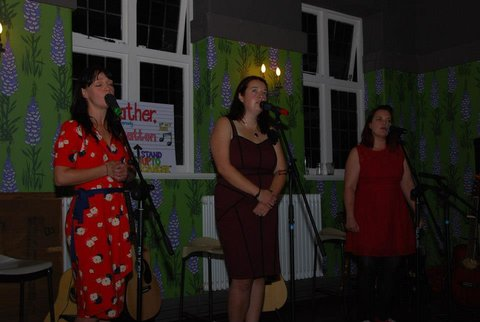
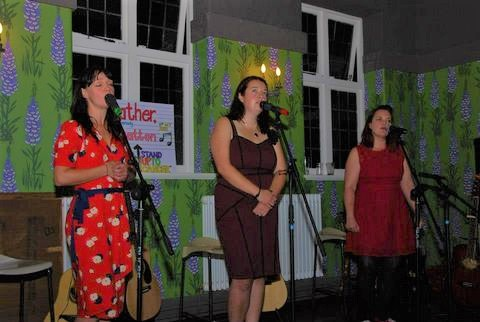
improved responsive design on footer and listen page

diff --git a/listen.html b/listen.html
@@ -11,56 +11,53 @@
 <body>
     <div class="listen-container">
         <div class="row">
-            <div class="col-md-12 listen-section-daisy background-color-red">
-                <ul>
-                    <li class="col-md-6">
-                        <div class="play-image-container">
-                            <a href="/audio/Daisy.mp3" target="_blank"><i class="fa fa-play play-icon"></i></a>
-                        </div>
-                    </li>
-                    
-                    <li class="col-md-6">
-                        <div class="right-align-text-container">
-                            <h4>Daisy</h4>
-                            <p>Abby loves this song by Karine Polwart so much that she spent hours learning the guitar part! Out of her comfort zone for sure!</p>
-                        </div>
-                    </li>
-                </ul>
+            <div class="col-sm-12 section background-color-red">
+                <div class="col-md-6 col-sm-12">
+                    <div class="play-image-container">
+                        <a href="/audio/Daisy.mp3" target="_blank"><i class="fa fa-play play-icon"></i></a>
+                    </div>
+                </div>
+
+                <div class="col-md-6 col-sm-12">
+                    <div class="text-container">
+                        <h4>Daisy</h4>
+                        <p>Abby loves this song by Karine Polwart so much that she spent hours learning the guitar part! Out of her comfort zone for sure!</p>
+                    </div>
+                </div>
             </div>
         </div>
     </div>
-    <div class="row">
-        <div class="col-md-12 listen-section-cotton background-color-orange">
-            <ul>
-                <li class="col-md-6">
-                    <div class="left-align-text-container">
-                        <h4>Cotton Mill Girls</h4>
-                        <p>We all love this song! Heather sings lead vocal, and Abby and Sarah harmonize. Cotton Mill Girls is a traditional song from the United States about farming becoming industrialized in the early 1900s.</p>
-                    </div>
 
-                </li>
-                <li class="col-md-6">
-                    <div class="play-image-container">
-                       <a href="/audio/Cotton_Mill_Girls.mp3" target="_blank"><i class=" fa fa-play play-icon"></i></a>
-                    </div>
-                </li>
-            </ul>
+    <div class="row">
+        <div class="col-sm-12 section background-color-orange">
+            <div class="col-md-6 col-sm-12">
+                <div class="text-container">
+                    <h4>Cotton Mill Girls</h4>
+                    <p>We all love this song! Heather sings lead vocal, and Abby and Sarah harmonize. Cotton Mill Girls is a traditional song from the United States about farming becoming industrialized in the early 1900s.</p>
+                </div>
+
+            </div>
+            <div class="col-md-6 col-sm-12">
+                <div class="play-image-container">
+                    <a href="/audio/Cotton_Mill_Girls.mp3" target="_blank"><i class=" fa fa-play play-icon"></i></a>
+                </div>
+            </div>
         </div>
     </div>
+
     <div class="row">
-        <div class="col-md-12 listen-section-yorba background-color-red">
-            <ul>
-                <li class="col-md-6">
+        <div class="col-sm-12 section background-color-red">
+                <div class="col-md-6 col-sm-12">
                     <div class="play-image-container">
-                       <a href="/audio/Hotel_Yorba.mp3"  target="_blank"><i class=" fa fa-play play-icon"></i></a>
+                        <a href="/audio/Hotel_Yorba.mp3" target="_blank"><i class=" fa fa-play play-icon"></i></a>
                     </div>
-                </li>
-                <li class="col-md-6">
-                    <div class="right-align-text-container">
+                </div>
+                <div class="col-md-6 col-sm-12">
+                    <div class="text-container">
                         <h4>Hotel Yorba</h4>
                         <p>It wasn't all folk! This song by the White Stripes is one of our farourites - I think you can tell!</p>
                     </div>
-                </li>
+                </div>
             </ul>
         </div>
     </div>
@@ -95,7 +92,7 @@
                 <img src="images/su2c_logo.png"></img>
             </div>
             <div class="col-sm-6 charity-text">
-                <h4>Check out the social media links to see how you could StandUp2Cancer too!</h4>
+                <p>Check out the social media links to see how you could StandUp2Cancer too!</p>
             </div>
             <div class="col-sm-3 charity-social ">
                 <ul class="list-inline charity-social-links">

diff --git a/css/style.css b/css/style.css
@@ -53,7 +53,7 @@
 
 .main-container {
     height: 80vh;
-    background: url("../images/3ladiessitting.jpg") no-repeat center center fixed;
+    background: url("../images/3ladiesstanding.jpg") no-repeat center center fixed;
     -webkit-background-size: cover;
     -moz-background-size: cover;
     -o-background-size: cover;
@@ -130,38 +130,46 @@
 /*------------------------------------------------------Footer*/
 
 .footer {
-    min-height: 120px;
+    min-height: 100px;
+}
+
+.charity-logo {
+    min-height: 100px;
 }
 
 .charity-logo img {
-    padding-left: 60px;
-    padding-top: 15px;
-    padding-bottom: 15px;
+    width: 50%;
+    height: auto;
+    margin: 5% 25%;
 }
 
 .charity-text {
     text-align: center;
     color: white;
-    height: 130px;
-    padding-top: 40px;
+    padding-top: 2%;
+    min-height: 100px;
+    font-size: 2em;
 }
 
-.charity-social {
-    padding-bottom: 15px;
-    padding-top: 30px;
-    padding-left: 50px;
+
+.charity-social ul {
+    text-align: center;
+    min-height: 100px;
+    width: 80%;
+    margin: 5% auto;
+}
+
+.charity-social li {
+    margin: auto;
 }
 
 .charity-social li a i {
     padding: 15px;
-    font-size: 30px;
+    font-size: 2em;
     text-align: center;
     color: white;
     background-color: #E79132;
     border-radius: 50%;
-    -moz-transition: all 0.35s ease-in-out;
-    -webkit-transition: all 0.35s ease-in-out;
-    -o-transition: all 0.35s ease-in-out;
 }
 
 /*------------------------------------------------------------Meet Us*/
@@ -170,7 +178,7 @@
     height: auto;
 }
 
-.info-section-who {
+.section {
     height: auto;
 }
 
@@ -195,10 +203,6 @@
     border: 5px outset #333333;
 }
 
-.info-section-why {
-    height: auto;
-}
-
 .why-image-container {
     margin: 5% auto;
     width: 400px;
@@ -207,10 +211,6 @@
     border: 5px outset #333333;
     background-image: url("/images/Abbycropped.jpg");
     background-size: cover;
-}
-
-.info-section-how {
-    height: auto;
 }
 
 .how-image-container {
@@ -226,13 +226,9 @@
 /*------------------------------------------------------------Listen*/
 
 .play-image-container {
-    margin-top: 2%;
-    margin-left: 10%;
-    margin-bottom: 2%;
+    margin: 5% auto;
     width: 400px;
     height: 400px;
-    float: left;
-    overflow: hidden;
     border-radius: 50%;
     border: 5px outset #333333;
     background-color: black;
@@ -253,9 +249,9 @@
 }
 
 .form-box {
-    margin-top: 7%;
-    margin-left: 20%;
+    margin: 5% auto;
     width: 60%;
+    height: auto;
     border-radius: 5%;
     border: 5px outset #ffffff;
 }
@@ -293,13 +289,13 @@
 
 @media (max-width: 991px) and (min-width: 576px) {
     .text-container {
-    width: 80%;
-    height: 50%;
-    margin: 5% auto;
-    text-align: justify;
-    background-color: #1a1a1a;
-    color: white;
-    padding: 15px;
-    border: 5px outset #333333;
-}
+        width: 80%;
+        height: 50%;
+        margin: 5% auto;
+        text-align: justify;
+        background-color: #1a1a1a;
+        color: white;
+        padding: 15px;
+        border: 5px outset #333333;
+    }
 }

diff --git a/index.html b/index.html
@@ -5,8 +5,8 @@
     <link rel="stylesheet" href="https://maxcdn.bootstrapcdn.com/bootstrap/3.3.7/css/bootstrap.min.css" integrity="sha384-BVYiiSIFeK1dGmJRAkycuHAHRg32OmUcww7on3RYdg4Va+PmSTsz/K68vbdEjh4u" crossorigin="anonymous">
     <link rel="stylesheet" href="https://cdnjs.cloudflare.com/ajax/libs/font-awesome/4.7.0/css/font-awesome.min.css">
     <link rel="stylesheet" href="css/style.css" type="text/css" />
-    <meta name="viewport" content="width=device-width, initial-scale=1.0"/>
-    
+    <meta name="viewport" content="width=device-width, initial-scale=1.0" />
+
 
 </head>
 
@@ -16,7 +16,7 @@
             <div class="col-md-12 jumbotron text-center">
                 <h1>3 Lovely Ladies Stand Up to Cancer!</h1>
                 <hr>
-                <p class="lead">"Let's do something scary for charity", she said!</p>
+                <p class="lead">"Let's do something scary for charity!" - Heather, 2012</p>
             </div>
         </div>
     </div>
@@ -46,13 +46,13 @@
                 <img src="images/su2c_logo.png"></img>
             </div>
             <div class="col-sm-6 charity-text">
-                <h4>Check out the social media links to see how you could StandUp2Cancer too!</h4>
+                <p>Check out the social media links to see how you could StandUp2Cancer too!</p>
             </div>
-            <div class="col-sm-3 charity-social ">
+            <div class="col-sm-3 charity-social">
                 <ul class="list-inline charity-social-links">
                     <li><a target="_blank " href="https://www.facebook.com/SU2C/"><i class="fa fa-facebook"></i></a></li>
                     <li><a target="_blank " href="https://twitter.com/standup2c?lang=en"><i class="fa fa-twitter "></i></a>
-                        <li><a target="_blank " href="https://www.youtube.com/user/standuptocancerUK/"><i class="fa fa-youtube "></i></a>
+                    <li><a target="_blank " href="https://www.youtube.com/user/standuptocancerUK/"><i class="fa fa-youtube "></i></a>
                 </ul>
             </div>
         </div>

diff --git a/meet.html b/meet.html
@@ -12,7 +12,7 @@
 <body>
     <div class="info-container">
         <div class="row">
-            <div class="col-sm-12 info-section-who background-color-red">
+            <div class="col-sm-12 section background-color-red">
                 <div class="col-md-6 col-sm-12">
                     <div class="who-image-container"></div>
                 </div>
@@ -26,7 +26,7 @@
         </div>
     </div>
     <div class="row">
-        <div class="col-sm-12 info-section-why background-color-orange">
+        <div class="col-sm-12 section background-color-orange">
             <div class="col-md-6 col-sm-12">
                 <div class="text-container">
                     <h4>Why did we decide to perform?</h4>
@@ -40,7 +40,7 @@
         </div>
     </div>
     <div class="row">
-        <div class="col-sm-12 info-section-who background-color-red">
+        <div class="col-sm-12 section background-color-red">
             <div class="col-md-6 col-sm-12">
                 <div class="how-image-container"></div>
             </div>
@@ -80,7 +80,8 @@
                 <img src="images/su2c_logo.png"></img>
             </div>
             <div class="col-sm-6 charity-text">
-                <h4>Check out the social media links to see how you could StandUp2Cancer too!</h4>
+                <p>Check out the social media links to see how you could StandUp2Cancer too!
+                </p>
             </div>
             <div class="col-sm-3 charity-social ">
                 <ul class="list-inline charity-social-links">

diff --git a/inspire.html b/inspire.html
@@ -56,7 +56,7 @@
                 <img src="images/su2c_logo.png"></img>
             </div>
             <div class="col-sm-6 charity-text">
-                <h4>Check out the social media links to see how you could StandUp2Cancer too!</h4>
+                <p>Check out the social media links to see how you could StandUp2Cancer too!</p>
             </div>
             <div class="col-sm-3 charity-social ">
                 <ul class="list-inline charity-social-links">
